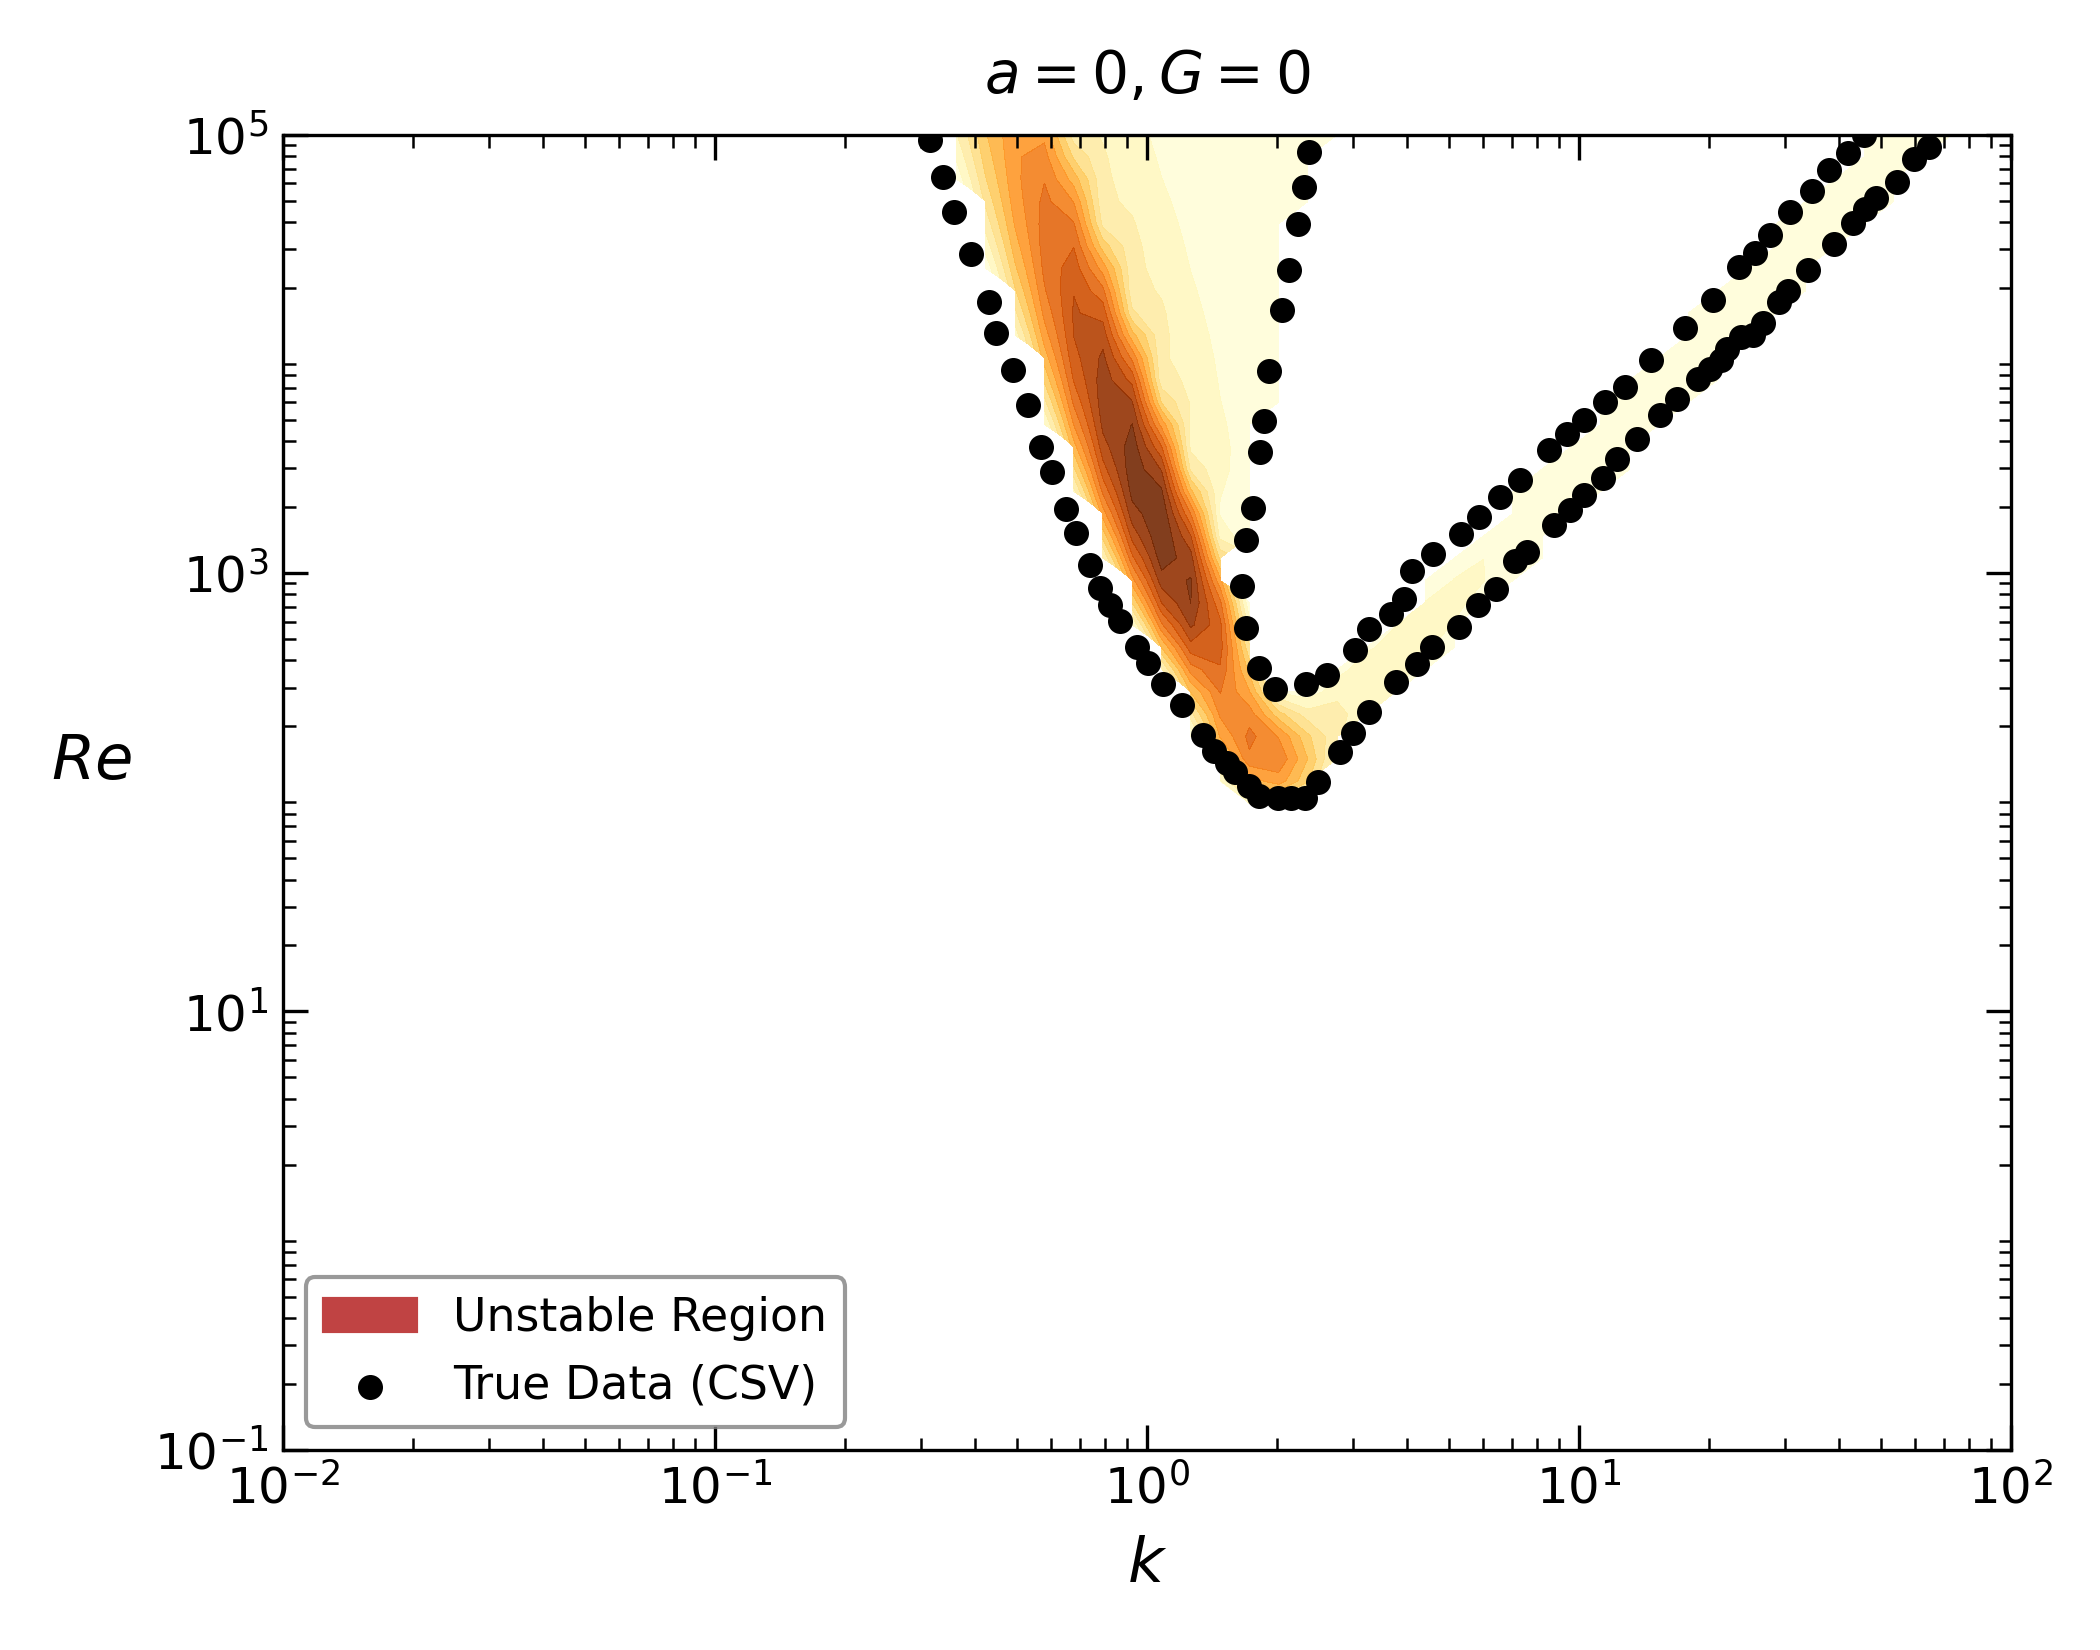
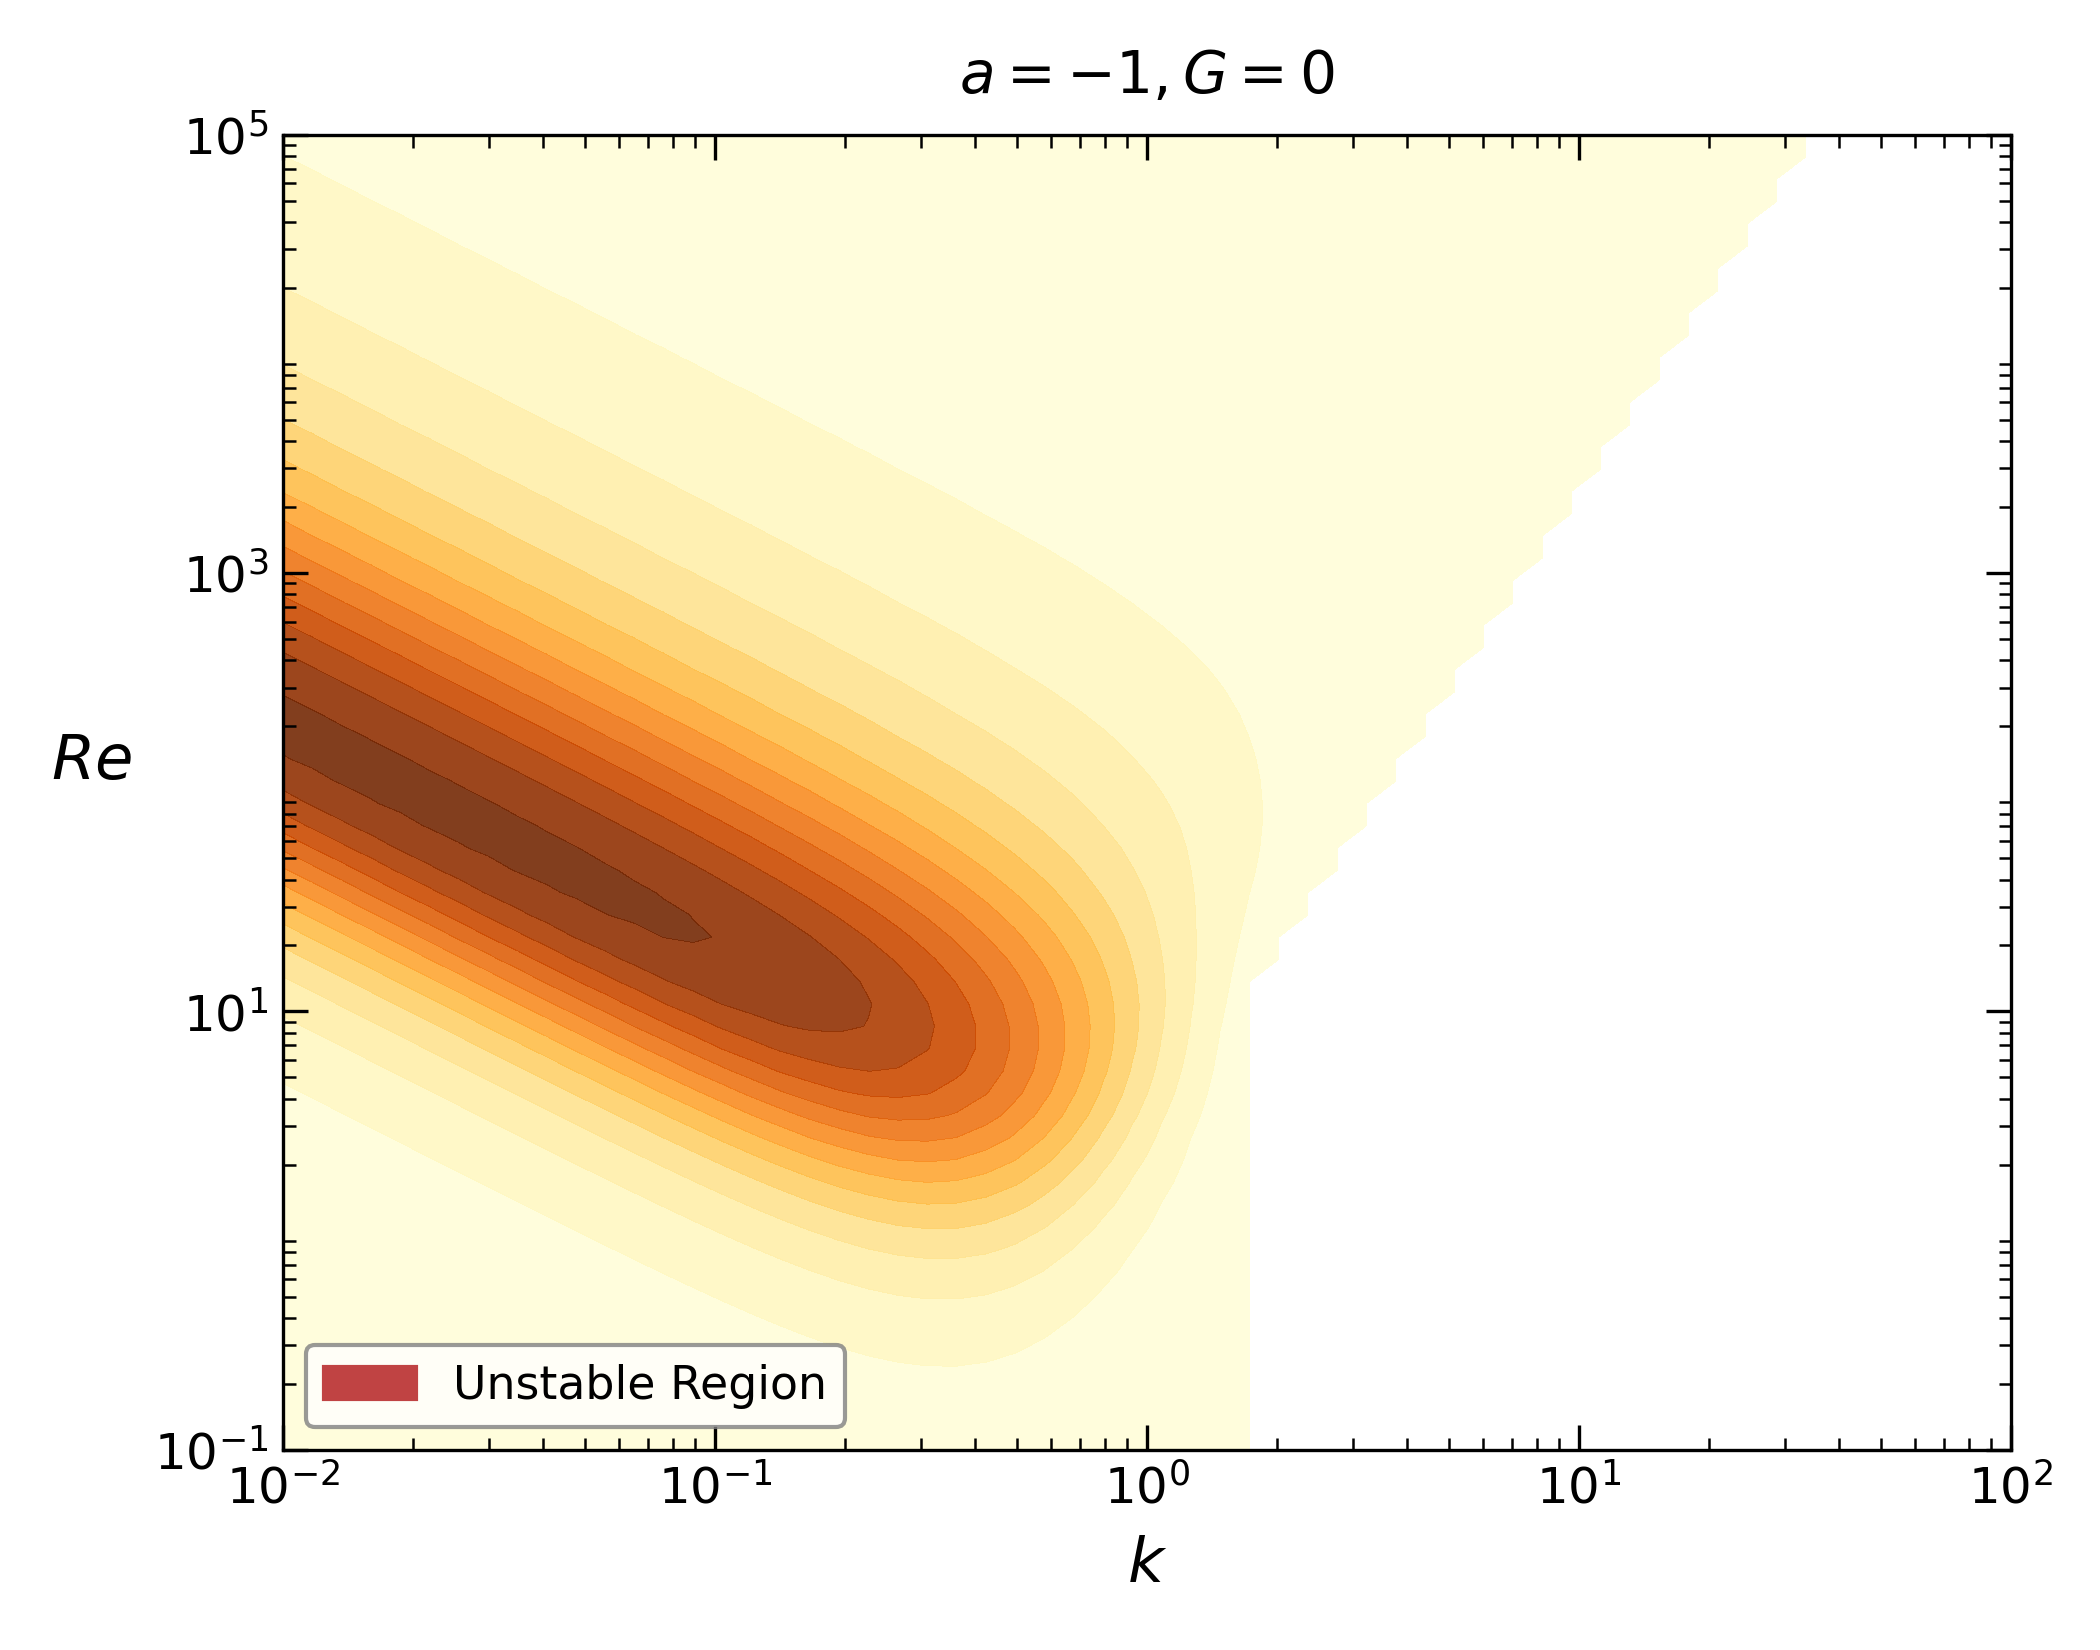
#

diff --git a/Topaldodi/har/a-1g0.py b/Topaldodi/har/a-1g0.py
@@ -1,0 +1,121 @@
+import numpy as np
+import dedalus.public as d3
+import logging
+
+logging.basicConfig(level=logging.WARNING)
+logger = logging.getLogger(__name__)
+
+# Fixed parameters
+a = -1        
+G = 0
+Bo = 1000.0   
+
+# --- HIGHER RESOLUTION MESH GENERATION ---
+N_k = 60
+N_Re = 60
+
+k_space = np.logspace(-2, 2, N_k)     # k from 10^-2 to 10^2
+Re_space = np.logspace(-1, 5, N_Re)   # Re from 10^-1 to 10^5
+
+k_grid, Re_grid = np.meshgrid(k_space, Re_space)
+max_ci_grid = np.zeros_like(Re_grid)
+
+def solve_evp(N_res, Re_val, k_val):
+    coord = d3.Coordinate('z')
+    dist = d3.Distributor(coord, dtype=np.complex128)
+    basis = d3.Chebyshev(coord, size=N_res, bounds=(-1, 0))
+    z = dist.local_grid(basis)
+    
+    U = dist.Field(name='U', bases=basis)
+    U['g'] = a * z**2 + (a + 1) * z + 1
+    Uz = dist.Field(name='Uz', bases=basis)
+    Uz['g'] = 2 * a * z + (a + 1)
+    Uzz = dist.Field(name='Uzz', bases=basis)
+    Uzz['g'] = 2 * a * np.ones_like(z)
+    
+    phi = dist.Field(name='phi', bases=basis)
+    phiz = dist.Field(name='phiz', bases=basis)
+    Lphi = dist.Field(name='Lphi', bases=basis)
+    Lphiz = dist.Field(name='Lphiz', bases=basis)
+    eta = dist.Field(name='eta')
+    c = dist.Field(name='c')
+    
+    tau1 = dist.Field(name='tau1')
+    tau2 = dist.Field(name='tau2')
+    tau3 = dist.Field(name='tau3')
+    tau4 = dist.Field(name='tau4')
+    
+    dz = lambda A: d3.Differentiate(A, coord)
+    try:
+        lift_basis = basis.derivative_basis(1)
+    except AttributeError:
+        lift_basis = basis
+    lift = lambda A: d3.Lift(A, lift_basis, -1)
+    
+    ns = dict(
+        Re=Re_val, k=k_val, a=a, G=G, Bo=Bo,
+        phi=phi, phiz=phiz, Lphi=Lphi, Lphiz=Lphiz, eta=eta, c=c,
+        tau1=tau1, tau2=tau2, tau3=tau3, tau4=tau4,
+        dz=dz, lift=lift, U=U, Uz=Uz, Uzz=Uzz
+    )
+    
+    problem = d3.EVP([phi, phiz, Lphi, Lphiz, eta, tau1, tau2, tau3, tau4], eigenvalue=c, namespace=ns)
+    problem.add_equation("phiz - dz(phi) + lift(tau1) = 0")
+    problem.add_equation("Lphi - dz(phiz) + (k**2)*phi + lift(tau2) = 0")
+    problem.add_equation("Lphiz - dz(Lphi) + lift(tau3) = 0")
+    problem.add_equation("1j*k*Re*(U*Lphi - Uzz*phi) - (dz(Lphiz) - (k**2)*Lphi) - 1j*k*Re*c*Lphi + lift(tau4) = 0")
+    
+    problem.add_equation("phi(z=-1) = 0")
+    problem.add_equation("phiz(z=-1) = 0")
+    problem.add_equation("-eta*U(z=0) - phi(z=0) + c*eta = 0")
+    problem.add_equation("eta*Uzz(z=0) + Lphi(z=0) + 2*(k**2)*phi(z=0) = 0")
+    problem.add_equation("Lphiz(z=0) - 2*(k**2)*phiz(z=0) + 1j*k*Re*(Uz(z=0)*phi(z=0) - U(z=0)*phiz(z=0)) - 1j*k*Re*G*eta*(1 + (k**2)/Bo) + 1j*k*Re*c*phiz(z=0) = 0")
+    
+    solver = problem.build_solver()
+    solver.solve_dense(solver.subproblems[0])
+    return np.array(solver.eigenvalues)
+
+def convergence_filter(ev_lo, ev_hi, tol=0.01):
+    good = []
+    for i, e in enumerate(ev_lo):
+        if not np.isfinite(e): continue
+        denom = max(abs(e), 1.0)
+        if np.min(np.abs(ev_hi - e)) / denom < tol:
+            good.append(i)
+    phys_mask = np.isfinite(ev_lo)
+    if len(good) == 0: return ev_lo[phys_mask]
+    converged = np.array(good)
+    return ev_lo[converged[phys_mask[converged]]]
+
+# --- GRID SWEEP LOOP ---
+total_points = N_Re * N_k
+counter = 0
+
+print("Computing eigenvalue space. This may take a minute due to grid density...")
+for i in range(N_Re):
+    for j in range(N_k):
+        counter += 1
+        cur_k = k_grid[i, j]
+        cur_Re = Re_grid[i, j]
+        
+        # Balanced resolution configuration for precision boundary tracking
+        ev1 = solve_evp(64, cur_Re, cur_k)
+        ev2 = solve_evp(96, cur_Re, cur_k)
+        evals = convergence_filter(ev1, ev2, tol=0.01)
+        
+        if len(evals) > 0:
+            max_ci_grid[i, j] = np.max(evals.imag)
+        else:
+            max_ci_grid[i, j] = -999.0
+            
+        if counter % 300 == 0:
+            print(f"Scan progress: {counter}/{total_points} cells complete.")
+
+# --- SAVE DATA ---
+np.savez("a-1g0.npz", 
+         k_grid=k_grid, 
+         Re_grid=Re_grid, 
+         max_ci_grid=max_ci_grid,
+         a=a, G=G, Bo=Bo)
+         
+print("Data saved successfully to 'a-1g0.npz'.")

diff --git a/Topaldodi/har/a-1g0plot.py b/Topaldodi/har/a-1g0plot.py
@@ -1,0 +1,69 @@
+import numpy as np
+import matplotlib.pyplot as plt
+import matplotlib.patches as mpatches
+
+# --- 1. LOAD BACKGROUND MAP DATA ---
+# This loads the grid you already calculated
+data = np.load("a-1g0.npz")
+k_grid = data['k_grid']
+Re_grid = data['Re_grid']
+max_ci_grid = data['max_ci_grid']
+
+a = data['a']
+G = data['G']
+Bo = data['Bo']
+
+
+
+# --- 3. GENERATE THE VISUALIZATION ---
+fig, ax = plt.subplots(figsize=(7, 5.5))
+
+# Mask stable configurations to leave them completely white
+masked_ci = np.ma.masked_where(max_ci_grid <= 0, max_ci_grid)
+
+# Plot the background contour (Yellow to Green transition)
+contour_fill = ax.contourf(k_grid, Re_grid, masked_ci, levels=15, cmap=plt.cm.YlOrBr, alpha=0.9)
+
+
+
+
+
+
+# --- 5. AXIS SCALING AND FORMATTING ---
+ax.set_xscale('log')
+ax.set_yscale('log')
+
+# Explicitly set axis limits
+ax.set_xlim(1e-2, 1e2)
+ax.set_ylim(1e-1, 1e5)
+
+# Minimalistic professional tick spacing adjustments
+ax.set_xticks([1e-2, 1e-1, 1e0, 1e1, 1e2])
+ax.set_yticks([1e-1, 1e1, 1e3, 1e5])
+
+# Axis labels
+ax.set_xlabel(r'$k$', fontsize=15, style='italic', labelpad=5)
+ax.set_ylabel(r'$Re$', fontsize=15, style='italic', rotation=0, labelpad=15)
+ax.set_title(rf'$a = {a}, G = {G}$', fontsize=14, pad=10)
+
+# Tick adjustments
+ax.tick_params(axis='both', which='major', labelsize=12, direction='in', 
+               length=6, top=True, right=True)
+ax.tick_params(axis='both', which='minor', direction='in', 
+               length=3, top=True, right=True)
+
+ax.patch.set_facecolor('white')
+plt.grid(False)
+
+# --- 6. CUSTOM LEGEND ---
+# Combine the contour patch and the scatter points into one clean legend
+this_work_patch = mpatches.Patch(color="#C04343", label="Unstable Region")
+# We grab the scatter plot handle automatically by relying on the label we assigned earlier
+handles, labels = ax.get_legend_handles_labels()
+handles.insert(0, this_work_patch) 
+
+ax.legend(handles=handles, loc='lower left', fontsize=11, frameon=True, edgecolor='gray')
+
+plt.tight_layout()
+plt.savefig('nscurve_with_data.png', dpi=300)
+plt.show()